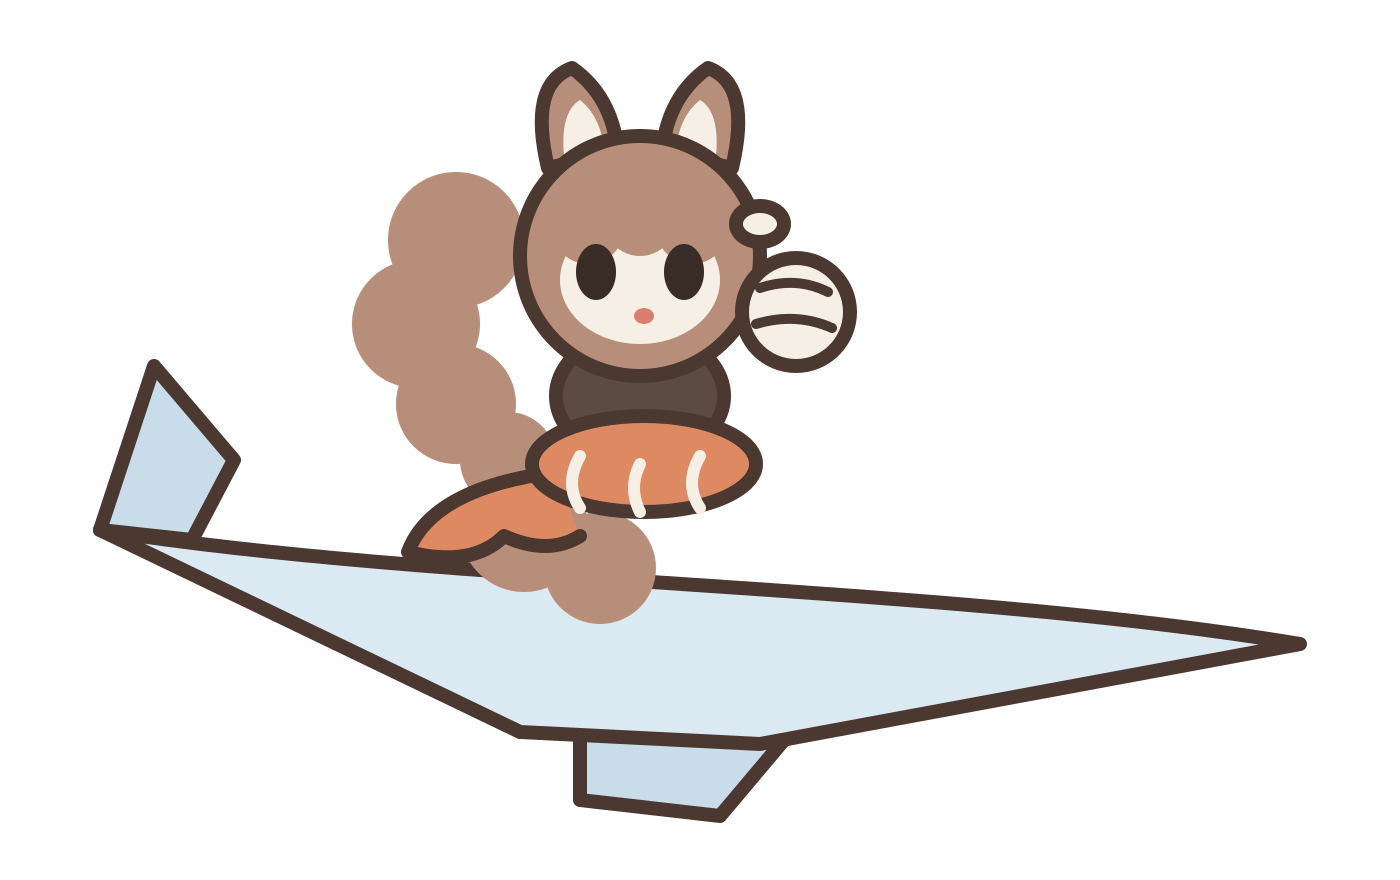
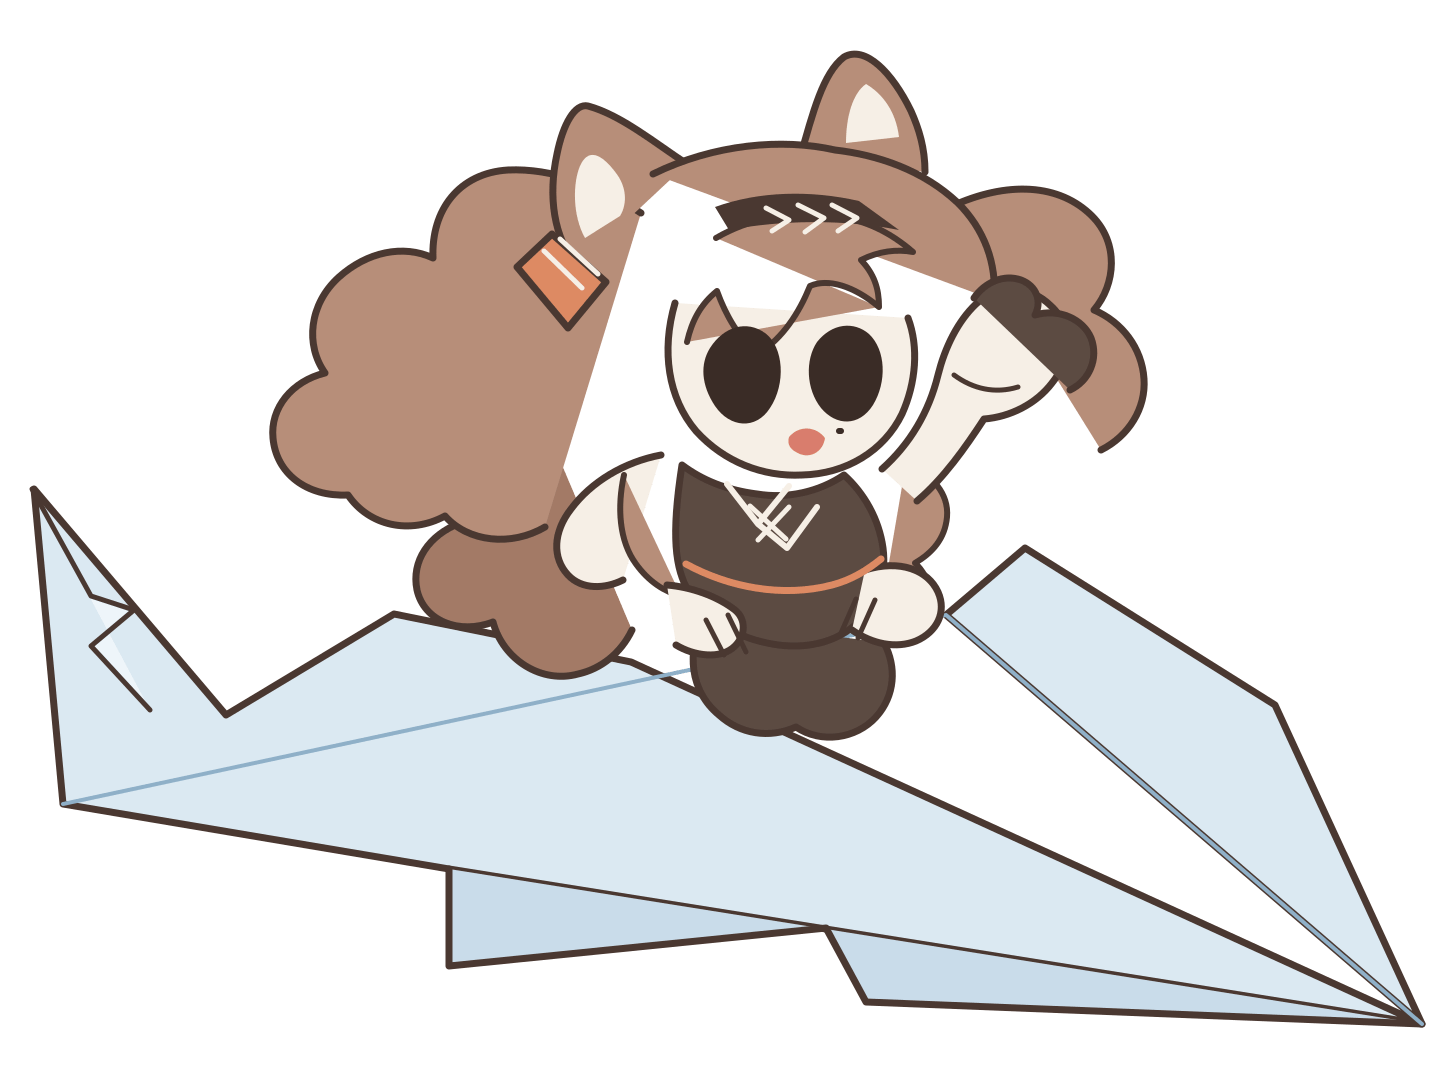
feat(bg): 真线稿SVG逐笔勾线(8步时间轴)+同几何彩色WebP上色+线稿沉降.12

diff --git a/NOTES.md b/NOTES.md
@@ -62,6 +62,13 @@ pnpm build && pnpm preview --port 4321   # 或 pnpm dev
 | 内容 | - | 按用户要求文章暂不灌入；about 页 1:1 |
 | 功能 | 5 | RSS/sitemap/robots 均生成；console 0 错误 |
 
+## 背景 v3（2026-09-05，用户供真线稿+8步时间轴）
+
+- 线稿：用户提供的 SVG（viewBox 0 0 1456 1080，5 组：ears-hair/face/body/plane/details）内嵌组件，每 path 加 pathLength=1，stroke 用 currentColor。
+- 彩色 PNG：`site/src/assets/char-color.svg` 用**同一批路径**填色重排图层 → sharp 栅格化 `bg-character.webp`(67KB)/png → 与线稿像素对齐。
+- 时间轴：0s 网格纸立即 → .1s 耳发 → .35s 脸 → .6s 身臂 → 1.0s 纸飞机 → 1.5s 细节+装饰层 → 2.1s 彩色淡入 0→.14 且线稿沉 .4→.12 → 2.8s 静止。实测终态 line .12 / color .14 / decor .13。
+- 播放策略/移动端/reduced-motion 同 v2。git: 25f8127 之后三提。
+
 ## 背景 v2（2026-09-05，按用户规格）
 
 结构：CSS 网格纸（global.css）+ 透明 WebP/PNG 彩色角色（sharp 栅格化自 `site/src/assets/char-color.svg`，脚本 `site/scripts/render-char.mjs`，webp 30KB）+ 同几何 SVG 线稿逐笔勾线（stroke-dasharray/dashoffset + pathLength=1）+ 装饰 SVG（轨迹/星芒/手写句）。
